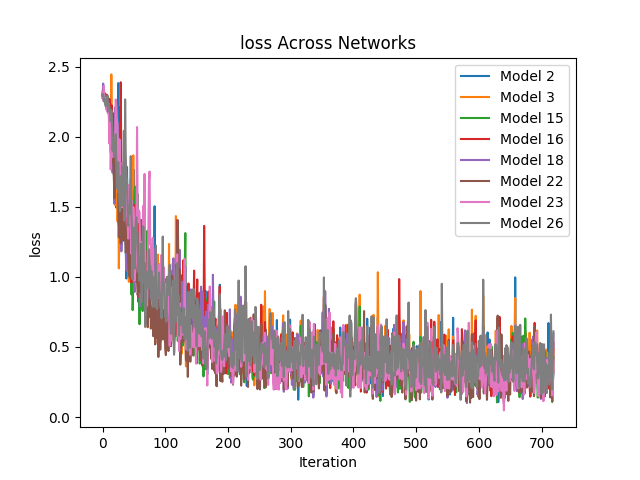
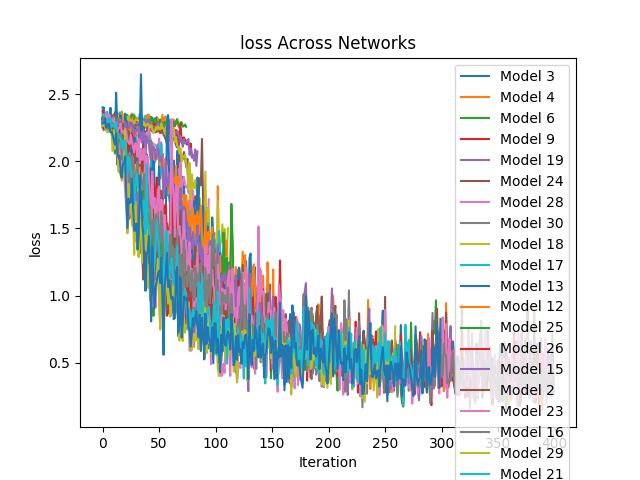
finally fixed;

diff --git a/base_graph.py b/base_graph.py
@@ -27,13 +27,13 @@ class Graph(object):
     self.n = n
     self.c = 0.3
     self.models = [Model(id) for id in range(n)]
-    self.n_parents = floor(n / 2.)
+    self.retired_models = []
+    self.n_parents = n # floor(n / 2.)
     self.type = type
     self.flag = flag
     # graph
     (self.adjMat,
      self.childrenList) = generate_graph(n, type=type, flag=flag)
-    print(self.adjMat)
     # data loading
     self.train_loader = build_data_loader(True, train_batch_size)
     self.eval_loader = build_data_loader(True, eval_batch_size)
@@ -134,7 +134,7 @@ class Graph(object):
                     if (step%(steps//n_diff)==(steps//(n_diff))-1):
                         val, idx = min((val, idx) for (idx, val)
                                        in enumerate(fitnesses))
-                        self.models.pop(idx)
+                        self.retired_models.append(self.models.pop(idx))
                         self.n -= 1
                 (self.adjMat,
                  self.childrenList) = generate_graph(self.n,self.type,self.flag)
@@ -163,14 +163,13 @@ class Graph(object):
       if not os.path.exists(root):
           os.mkdir(root)
       for name, buffer in self.models[0].param_logs.items():
-          for model in self.models:
+          for model in (self.models + self.retired_models):
               plt.plot(model.param_logs[name], label=str(model))
           if 'lr' in name:
-              plt.xscale('log')
+              plt.yscale('log')
           plt.xlabel('Iteration')
           plt.ylabel(name)
           plt.title(f'{name} Across Networks')
-          plt.legend()
           if not root:
               plt.show()
           else:

diff --git a/runner.py b/runner.py
@@ -6,16 +6,19 @@ import matplotlib.pyplot as plt
 
 g = Graph(31, type='Superfan', flag=5)
 
-sweep_vals = [0.000001, 0.00001, 0.0001, 0.001, 0.01, 0.4, 0.5, 1, 5, 10]
+sweep_vals = [0.000001, 0.00001, 0.0001, 0.001, 0.01, 0.03, 0.05, 0.08, 0.1, 0.2,
+              0.5, 1, 5, 10]
 final_losses = []
 
-g.train(schedule=[(10,31,5),(10,21,5),(100,13,4),(100,8,3),(500,8,7)])
+g.train(schedule=[(50,31,5),(50,21,5),(100,13,4),(100,8,3),(100,8,7), (1,1,7)])
+print(len(g.models))
+winner = g.models[0].id
 g.vis_global_params(root='schedule')
 g.vis_individual_params(root='schedule')
-g.vis_all_single_net(id=0, root='schedule')
+g.vis_all_single_net(id=winner, root='schedule')
 
 converged_loss = g.global_params['mean_lr'][-1]
-
+print(f'converged at: {converged_loss}')
 for lr in sweep_vals:
     m = Model(id=0, lr=lr)
     for _ in trange(1000):

diff --git a/model.py b/model.py
@@ -16,8 +16,7 @@ class Model(nn.Module):
     self.id = id
     # initialize hyper params
     # np.random.lognormal()
-    self.init_lr = np.random.uniform(0, 1) if not lr else lr
-    print(self.init_lr)
+    self.init_lr = np.exp(-np.random.uniform(0, 12)) if not lr else lr
     self.conv1 = nn.Conv2d(1, 10, kernel_size=5)
     self.conv2 = nn.Conv2d(10, 20, kernel_size=5)
     self.conv2_drop = nn.Dropout2d()
